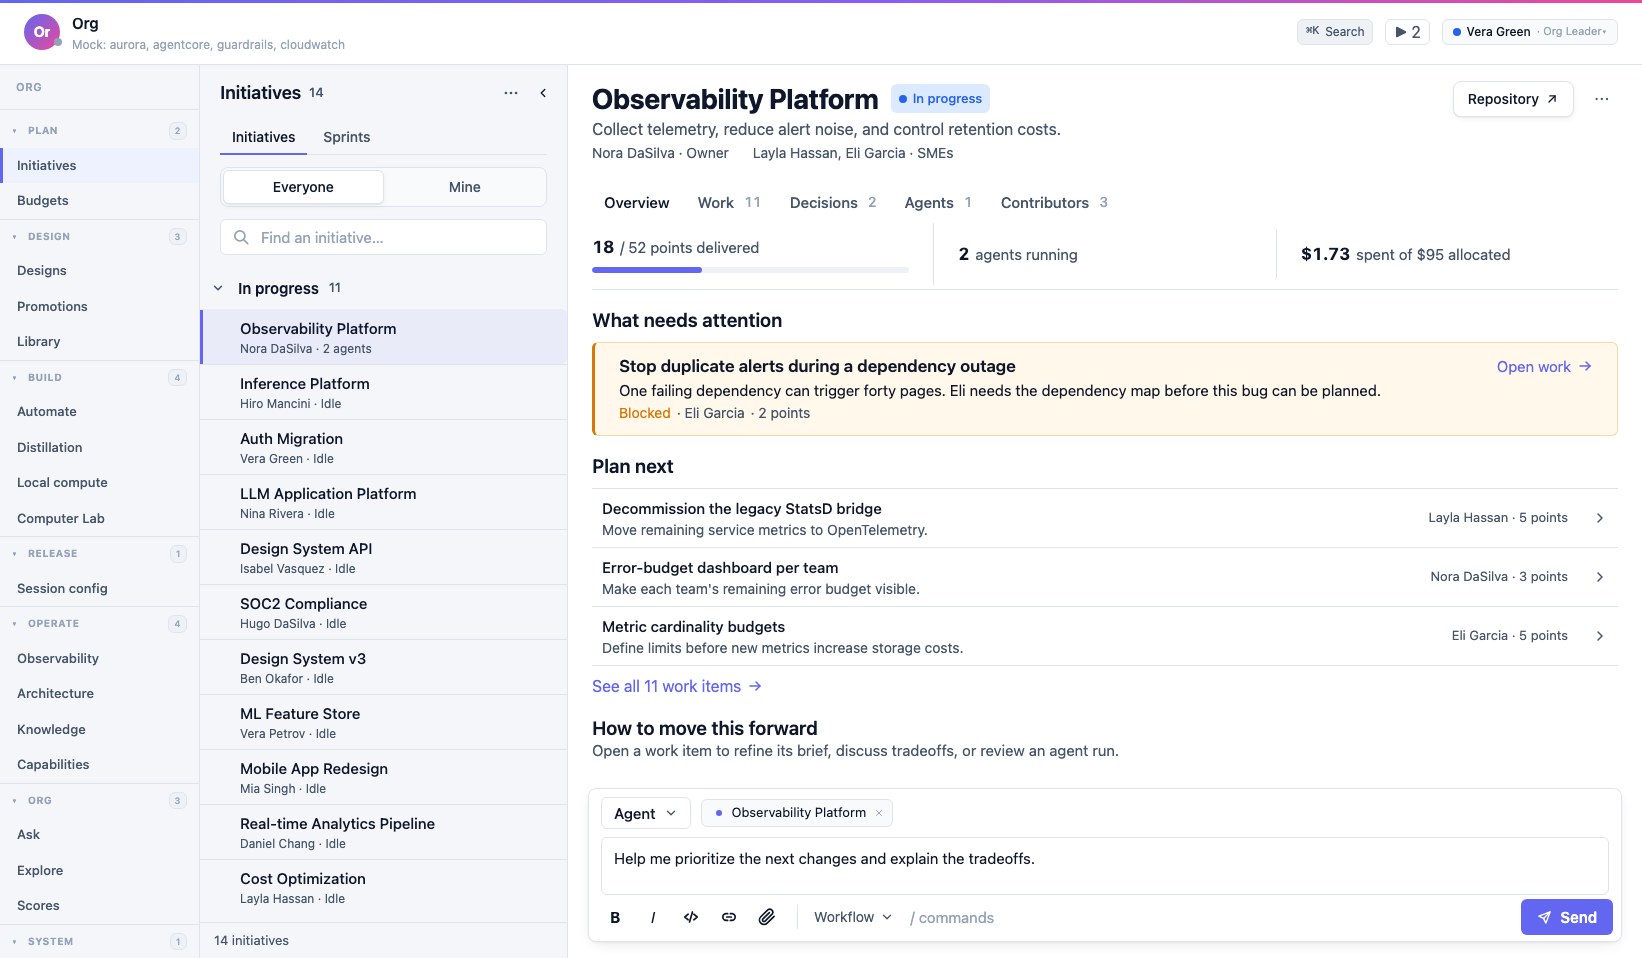
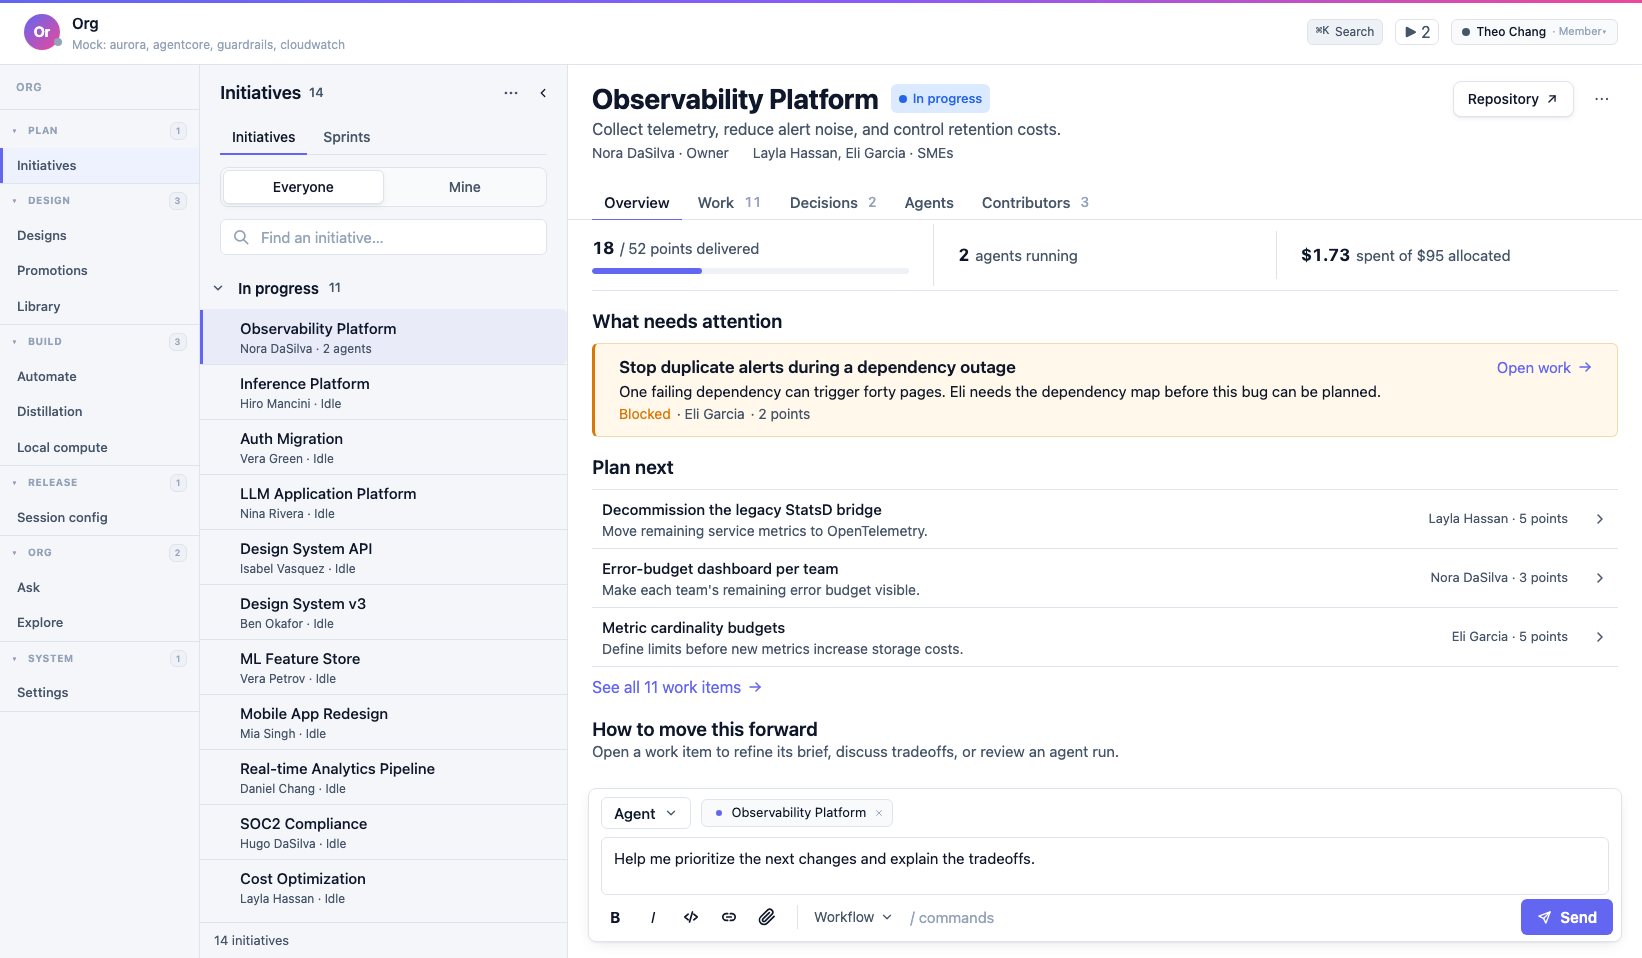
fix(initiatives): final visual pass against the three mockups
Checked Overview, Work and Mine-empty side by side with the targets at
1642x958 (headless, dev:mock) and fixed what did not match:

- No tab read as selected in the initiative header. ScopeHeader hangs its
  tab strip 1px onto its host's bottom rule; ExplorerLayout.paneHeader
  draws no rule, so the pane body painted over the underline. The header
  now draws its own rule, exactly as the library's "Initiative overview"
  story composes it.
- Work rows prefixed every story with "Story ·". The mockup names the kind
  only when it is not the default ("Bug · Eli Garcia · 2 points"), which is
  also what the old chip layout did.
- The Everyone table overflowed the narrower pane (1183px in 1026px, Spend
  and Updated off-screen). The repo path leaves the name subline (hover
  title; the Repository button carries it on the detail page) and the
  Active column goes, since the rail row beside it already says
  "· 2 agents" / "· Idle".
- Strip hints cut with no title in the narrower pane ("of $431.00
  allocated", three on the Sprints lens) are shortened, with the full
  wording in the cell tooltip where it names something.

Build screenshots re-shot from this state.

diff --git a/portal/src/pages/projects/ProjectTable.tsx b/portal/src/pages/projects/ProjectTable.tsx
@@ -4,7 +4,6 @@ import {
   DataTable,
   Inline,
   ProgressBar,
-  Spinner,
   Stack,
   StatusDot,
   type DataTableColumn,
@@ -54,9 +53,12 @@ export function ProjectTable({
           >
             {p.name}
           </Link>
-          <T as="div" className="font-mono text-[10px] text-text-tertiary truncate">
+          {/* The key only: the repository path made this the widest column
+              and pushed Spend and Updated out of the 1,026px pane beside the
+              explorer rail (horizontal scroll at 1642px). The path stays one
+              hover away here and is the Repository button on the detail page. */}
+          <T as="div" className="font-mono text-[10px] text-text-tertiary truncate" title={p.repoFullName ?? undefined}>
             {deriveProjectKey(p.id, p.name)}
-            {p.repoFullName ? ` · ${p.repoFullName}` : ''}
           </T>
         </Stack>
       ),
@@ -87,20 +89,9 @@ export function ProjectTable({
         );
       },
     },
-    {
-      key: 'activeAgentRuns', header: 'Active', sortable: true,
-      compare: (a, b) => (a.activeAgentRuns ?? 0) - (b.activeAgentRuns ?? 0),
-      render: (p) => (p.activeAgentRuns ?? 0) > 0 ? (
-        <Inline gap="xs" wrap={false}>
-          <Spinner size="sm" color="var(--color-success)" aria-label="Agents working now" />
-          <T className="text-[12px] font-medium text-text-secondary whitespace-nowrap">
-            {p.activeAgentRuns} agent{p.activeAgentRuns === 1 ? '' : 's'}
-          </T>
-        </Inline>
-      ) : (
-        <T className="text-[11px] text-text-tertiary">idle</T>
-      ),
-    },
+    // No "Active" column: the explorer rail beside this table already reads
+    // "Nora DaSilva · 2 agents" / "· Idle" for every row, and the column was
+    // what pushed Spend and Updated past the pane's edge at 1642px.
     {
       key: 'progress', header: 'Progress', sortable: true,
       compare: (a, b) => (pointsFraction(a) ?? -1) - (pointsFraction(b) ?? -1),

diff --git a/portal/src/pages/projects/SprintsLens.tsx b/portal/src/pages/projects/SprintsLens.tsx
@@ -207,12 +207,16 @@ export function SprintsLens({ view, lens }: { view: 'grid' | 'list'; lens: Sprin
             label: 'Needs attention',
             value: needsAttention,
             ...(needsAttention > 0 ? { tone: 'danger' as const } : {}),
-            hint: needsAttention > 0 ? 'behind window or over envelope' : 'all on track',
+            // The pane beside the explorer rail gives each cell ~153px of hint;
+            // the long form lives in the tooltip rather than being cut.
+            hint: needsAttention > 0 ? 'late or over envelope' : 'all on track',
+            ...(needsAttention > 0 ? { title: 'Behind its window or over its envelope' } : {}),
           },
           {
             label: 'Points',
             value: `${totals.pointsDone} / ${totals.pointsTotal}`,
-            hint: 'delivered vs committed',
+            hint: 'done / committed',
+            title: 'Points delivered vs points committed',
           },
           {
             label: 'Spend in windows',
@@ -229,6 +233,8 @@ export function SprintsLens({ view, lens }: { view: 'grid' | 'list'; lens: Sprin
             label: 'My envelope',
             value: envelopes.value,
             hint: envelopes.hint,
+            // Names the initiative, so it can outrun the cell: whole on hover.
+            title: typeof envelopes.hint === 'string' ? envelopes.hint : undefined,
             ...(envelopes.tone ? { tone: envelopes.tone } : {}),
             ...(envelopes.openable ? { onSelect: () => setEnvelopesOpen(true) } : {}),
           }] : []),

diff --git a/portal/src/pages/ProjectsPage.tsx b/portal/src/pages/ProjectsPage.tsx
@@ -193,7 +193,9 @@ function ProjectsPage() {
                 label: `Spend · ${SPEND_MONTH.split(' ')[0]}`,
                 value: usd(totals.spendUsd),
                 ...(totals.allocatedUsd > 0 && totals.spendUsd > totals.allocatedUsd ? { tone: 'danger' as const } : {}),
-                hint: totals.allocatedUsd > 0 ? `of ${usd(totals.allocatedUsd)} allocated` : 'no allocations',
+                // "of $431.00 allocated" needed 108px in the 104px cell and was cut with
+                // no title; the "of" carried nothing the label does not already say.
+                hint: totals.allocatedUsd > 0 ? `${usd(totals.allocatedUsd)} allocated` : 'no allocations',
               },
             ]}
           />

diff --git a/portal/src/pages/project-detail/workListModel.ts b/portal/src/pages/project-detail/workListModel.ts
@@ -152,7 +152,10 @@ export function toWorkListItem(
     owner: item.assigneeId && item.assigneeName ? { id: item.assigneeId, name: item.assigneeName } : null,
     chips,
     signal,
-    kindLabel: kindLabel(item),
+    // A story is the default kind of work, so its row names only the owner
+    // and points ("Layla Hassan · 5 points"); a bug or an epic says what it is
+    // ("Bug · Eli Garcia · 2 points") — the same rule the chip layout followed.
+    kindLabel: item.type === 'story' ? undefined : kindLabel(item),
     tag: isBlocked(item) && item.status !== 'done' && item.status !== 'cancelled'
       ? { label: 'Blocked', tone: 'danger' }
       : null,

diff --git a/portal/src/pages/ProjectDetailPage.tsx b/portal/src/pages/ProjectDetailPage.tsx
@@ -464,6 +464,12 @@ function ProjectDetailPage() {
       ]}
       activeTab={tab}
       onTabChange={setTab}
+      // ScopeHeader's tab strip sits on its host's bottom rule (-mb-px); in
+      // ExplorerLayout.paneHeader there is no host rule, so the header draws
+      // its own — the library's "Initiative overview" story composes it the
+      // same way. Without it the selected tab's underline is painted over by
+      // the pane body and no tab reads as current.
+      className="border-b border-border"
       data-testid="initiative-header"
     />
   );

diff --git a/portal/src/pages/project-detail/__tests__/workListModel.test.ts b/portal/src/pages/project-detail/__tests__/workListModel.test.ts
@@ -112,5 +112,5 @@ test('rows carry a kind label and a red Blocked tag; text meta drops the Bug chi
   assert.equal(textRow.kindLabel, 'Bug');
   // A finished item's leftover label is history, not a live tag.
   assert.equal(toWorkListItem({ ...bug, status: 'done' }, undefined, false).tag, null);
-  assert.equal(toWorkListItem(workRows(tree, 'priority', '')[1]!, undefined, false).kindLabel, 'Story');
+  assert.equal(toWorkListItem(workRows(tree, 'priority', '')[1]!, undefined, false).kindLabel, undefined); // a story names no kind
 });
